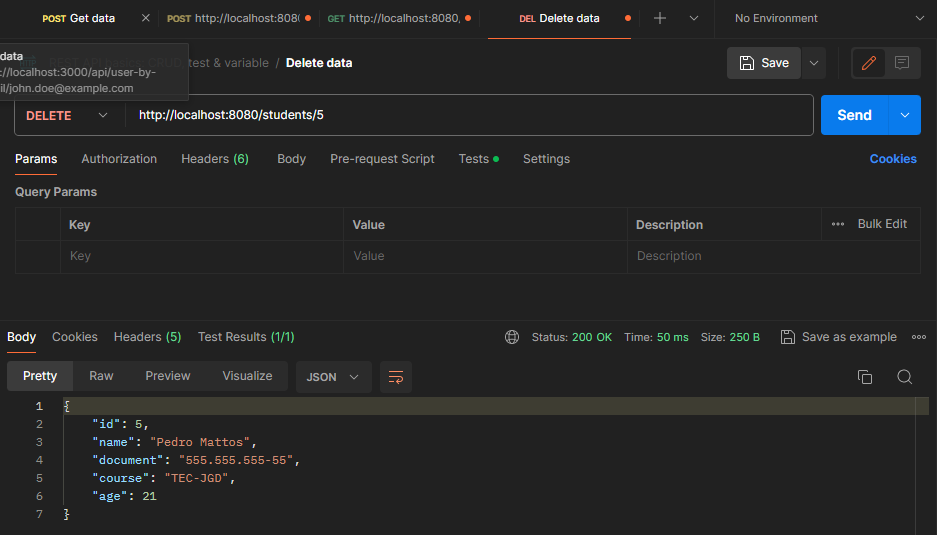
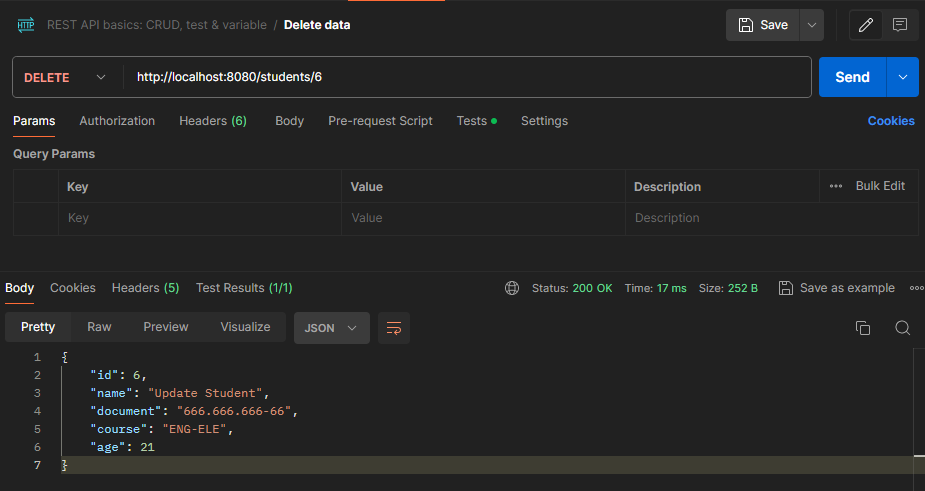
21-03-2024 aula 05 exercícios

diff --git a/src/main/java/arqweb/aula03/demo/repository/StudentRepositoryImpl.java b/src/main/java/arqweb/aula03/demo/repository/StudentRepositoryImpl.java
@@ -2,63 +2,67 @@ package arqweb.aula03.demo.repository;
 
 import org.springframework.stereotype.Repository;
 import arqweb.aula03.demo.model.Student;
-import java.util.ArrayList;
+import org.springframework.jdbc.core.JdbcTemplate;
 import java.util.List;
 
 @Repository
 public class StudentRepositoryImpl implements StudentRepository {
-    private final List<Student> students = new ArrayList<>();
-    private Long nextId;
+    private final JdbcTemplate jdbcTemplate;
 
-    public StudentRepositoryImpl() {
-        students.add(new Student(1L, "Luiz Obara"    , "111.111.111-11", "TEC-ADS" , 21));
-        students.add(new Student(2L, "Júlia Almeida" , "222.222.222-22", "ARQ-URB" , 20));
-        students.add(new Student(3L, "Felipe Lima"   , "333.333.333-33", "TEC-ADS" , 20));
-        students.add(new Student(4L, "Tiago Bernardo", "444.444.444-44", "ENG-PROD", 22));
-        students.add(new Student(5L, "Pedro Mattos"  , "555.555.555-55", "TEC-JGD" , 21));
-        nextId = 6L;
+    public StudentRepositoryImpl(JdbcTemplate jdbcTemplate) {
+        this.jdbcTemplate = jdbcTemplate;
     }
 
     @Override
     public List<Student> findAll() {
-        return students;
+        return jdbcTemplate.query("SELECT * FROM student", (resultSet, rowNum) ->
+            new Student(
+                    resultSet.getLong("id"),
+                    resultSet.getString("name"),
+                    Student.formatCpf(resultSet.getString("document")),
+                    resultSet.getString("course"),
+                    resultSet.getInt("age")
+            )
+        );
     }
 
     @Override
     public Student findById(Long id) {
-        return students.stream()
-                .filter(student -> student.getId().equals(id))
-                .findFirst()
-                .orElse(null);
+        String query = "SELECT * FROM student WHERE id = ?";
+
+        return jdbcTemplate.queryForObject(query, new Object[]{id}, (resultSet,  rowNum) ->
+            new Student(
+                    resultSet.getLong("id"),
+                    resultSet.getString("name"),
+                    Student.formatCpf(resultSet.getString("document")),
+                    resultSet.getString("course"),
+                    resultSet.getInt("age")
+            )
+        );
     }
 
     @Override
-    public Student save(Student student) {
-        if (student.getId() == null) {
-            student.setId(nextId++);
-            students.add(student);
+    public Student save(Long id, Student student) {
+        if (id == null) {
+            String insertQuery = "INSERT INTO public.student (name, document, course, age) VALUES (?, ?, ?, ?)";
+            jdbcTemplate.update(insertQuery, student.getName(), student.getDocument(), student.getCourse(), student.getAge());
         } else {
-            students.removeIf(t -> t.getId().equals(student.getId()));
-            students.add(student);
+            // Sem troca de ID
+            if (this.findById(id) != null) {
+                String updateQuery = "UPDATE public.student SET name = ?, document = ?, course = ?, age = ? WHERE id = ?";
+                jdbcTemplate.update(updateQuery, student.getName(), student.getDocument(), student.getCourse(), student.getAge(), student.getId());
+            } else {
+                throw new IllegalArgumentException("Não existe nenhum estudante com esse registro.");
+            }
         }
         return student;
     }
 
     @Override
     public Student delete(Long id){
-        Student deletedStudent = this.findById(id);
-        if (deletedStudent != null) {
-            students.removeIf(student -> student.getId().equals(id));
-        }
-        return deletedStudent;
-    }
-
-    @Override
-    public Student update(Long id, Student student){
-        Student updateStudent = this.findById(id);
-        if (updateStudent != null) {
-            students.set(students.indexOf(updateStudent), student);
-        }
+        Student student = findById(id);
+        String deleteQuery = "DELETE FROM public.student WHERE id = ?";
+        jdbcTemplate.update(deleteQuery, new Object[]{id});
         return student;
     }
 }

diff --git a/src/main/java/arqweb/aula03/demo/services/StudentServiceImpl.java b/src/main/java/arqweb/aula03/demo/services/StudentServiceImpl.java
@@ -23,8 +23,9 @@ public class StudentServiceImpl implements StudentService {
     }
 
     @Override
-    public Student createStudent(Student student) {
-        return studentRepository.save(student);
+    public Student createStudent(Long id, Student student) {
+        student.setDocument(student.getDocument().replaceAll("[.-]", ""));
+        return studentRepository.save(id, student);
     }
 
     @Override
@@ -34,6 +35,6 @@ public class StudentServiceImpl implements StudentService {
 
     @Override
     public Student updateStudentById(Long id, Student student) {
-        return studentRepository.update(id, student);
+        return studentRepository.save(id, student);
     }
 }

diff --git a/src/main/java/arqweb/aula03/demo/model/Student.java b/src/main/java/arqweb/aula03/demo/model/Student.java
@@ -1,5 +1,7 @@
 package arqweb.aula03.demo.model;
 
+import org.apache.tomcat.util.buf.StringUtils;
+
 public class Student {
     private Long id;
     private String name;
@@ -53,6 +55,10 @@ public class Student {
 
     public void setAge(int age) {
         this.age = age;
+    }
+
+    public static String formatCpf(String document) {
+        return document.replaceAll("(\\d{3})(\\d{3})(\\d{3})(\\d{2})", "$1.$2.$3-$4");
     }
 
 }

diff --git a/src/main/java/arqweb/aula03/demo/services/StudentService.java b/src/main/java/arqweb/aula03/demo/services/StudentService.java
@@ -6,7 +6,7 @@ import java.util.List;
 public interface StudentService {
     List<Student> getAllStudents();
     Student getStudentById(Long id);
-    Student createStudent(Student student);
+    Student createStudent(Long id, Student student);
     Student deleteStudentById(Long id);
     Student updateStudentById(Long id, Student student);
 }

diff --git a/src/main/java/arqweb/aula03/demo/controller/StudentController.java b/src/main/java/arqweb/aula03/demo/controller/StudentController.java
@@ -30,7 +30,8 @@ public class StudentController {
 
     @PostMapping("/add")
     public Student createStudent(@RequestBody Student student) {
-        return studentService.createStudent(student);
+        Long id = null;
+        return studentService.createStudent(id,student);
     }
 
     @DeleteMapping("/{id}")

diff --git a/src/main/java/arqweb/aula03/demo/repository/StudentRepository.java b/src/main/java/arqweb/aula03/demo/repository/StudentRepository.java
@@ -7,8 +7,6 @@ import java.util.List;
 public interface StudentRepository {
     List<Student> findAll();
     Student findById(Long id);
-    Student save(Student student);
+    Student save(Long id, Student student);
     Student delete(Long id);
-
-    Student update(Long id, Student student);
 }

diff --git a/README.md b/README.md
@@ -1,56 +1,52 @@
-# AULA 4
-##  Inversão de controle e injeção de dependencias
+# AULA 5
+##  API usando JDBC para persistencia
 
-### A classe [Student](/src/main/java/arqweb/aula03/demo/model/Student.java)
+#### O código do banco e tabela do [Postgre] (/src/main/resourses/db/database.sql)
 ```
-    src > main > java >arqweb.aula03.demo > model
-```
-### A classe [StudentController](/src/main/java/arqweb/aula03/demo/controller/StudentController.java) foi adicionada a:
-``` 
-    src > main > java >arqweb.aula03.demo > controller
-```
-
-### A interface [StudentService](/src/main/java/arqweb/aula03/demo/services/StudentService.java) e a classe [StudentServiceImpl](/src/main/java/arqweb/aula03/demo/services/StudentServiceImpl.java) foi adicionada a:
-``` 
-    src > main > java >arqweb.aula03.demo > services
-```
-
-### A interface [StudentRepository](/src/main/java/arqweb/aula03/demo/repository/StudentRepository.java) e a classe [StudentRepositoryImpl](/src/main/java/arqweb/aula03/demo/repository/StudentRepositoryImpl.java) foi adicionada a:
-``` 
-    src > main > java >arqweb.aula03.demo > repository
+    src > main > resourses > db > database.sql
 ```
 <hr>
 
-### Teste 1 GET - Buscar todos Alunos "/students"
-![Teste 1 - GET getStudents](img/getStudents.png)
+### Inserts de dados no banco para testes.
+![Insert](img/insert.png)
 <hr>
 
-### Teste 2 GET - Buscar aluno pelo Id "/students/{id}"
-![Teste 2 - GET getStudentById](img/getStudentById.png)
+### Tabela de estudantes.
+![Table](img/table.png)
 <hr>
 
-### Teste 3 POST - Adicionar aluno "/students/add"
-![Teste 3 - POST](img/postStudent.png)
+### Teste do getAllStudents
+![GetAllStudents](img/getAllStudents.png)
 <hr>
 
-### Verificação Teste 3 GET após o POST
-![Teste 3 - GET getStudents](img/getStudentsAfterPost.png)
+### Teste de getStudentById
+![GetStudentByid](img/getStudentById.png)
 <hr>
 
-### Teste 4 DEL - deletar aluno pelo id "/students/{id}"
-![Teste 4 - DEL deleteStudentById](img/deleteStudentById.png)
+### Teste do CreateStudent
+![CreateStudent](img/createStudent.png)
 <hr>
 
-### Verificação Teste 4 GET após o DEL
-![Teste 4 - DEL getStudents](img/getStudentsAfterDelete.png)
+### Save do Post
+![CreateStudentSave](img/createStudentSave.png)
 <hr>
 
-### Teste 5 PUT - alterar dados do Aluno pelo id "/students/{id}"
-![Teste 5 - PUT updateStudentByID](img/updateStudentById.png)
+### Teste de updateStudentById
+![UpdateStudentById](img/updateStudentById.png)
 <hr>
 
-### Verificação Teste 5 GET após o PUT
-![Teste 5 - GET getStudents](img/getStudentsAfterUpdate.png)
+### Save do updateStudentById
+![UpdateStudentByIdSave](img/updateStudentByIdSave.png)
 <hr>
 
-# Última atualização - 09/03/2024
+### Teste de deleteStudentById
+![DeleteStudentById](img/deleteStudentById.png)
+<hr>
+
+### deleteStudentById
+![DeleteStudentByIdSave](img/deleteStudentByIdSave.png)
+<hr>
+
+
+
+# Última atualização - 21/03/2024
